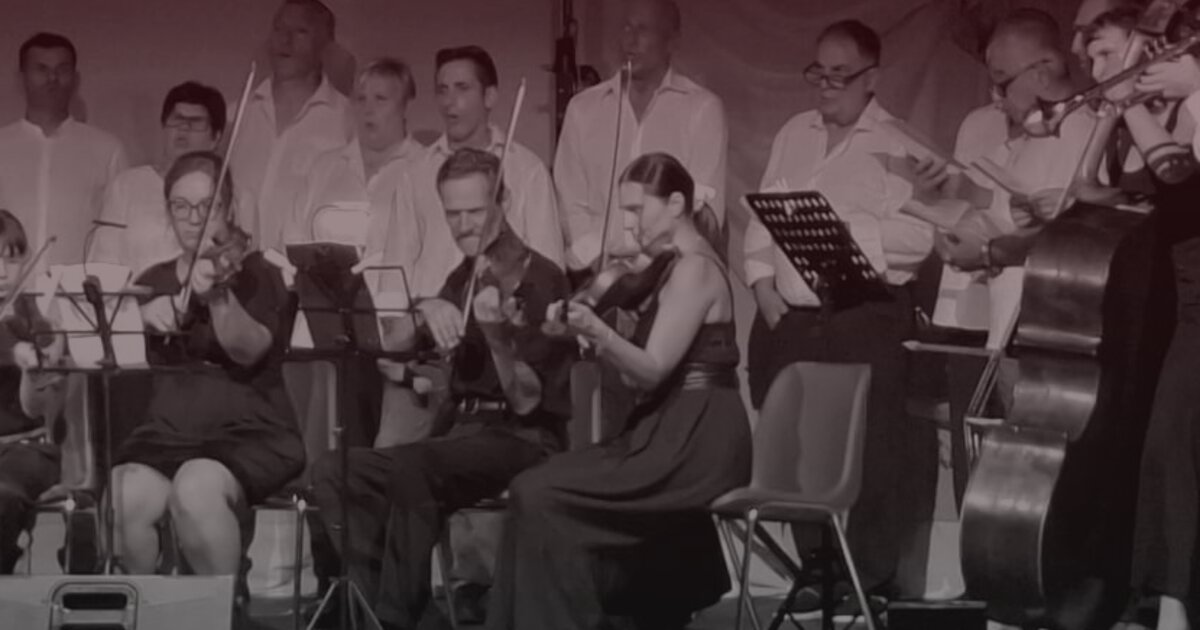
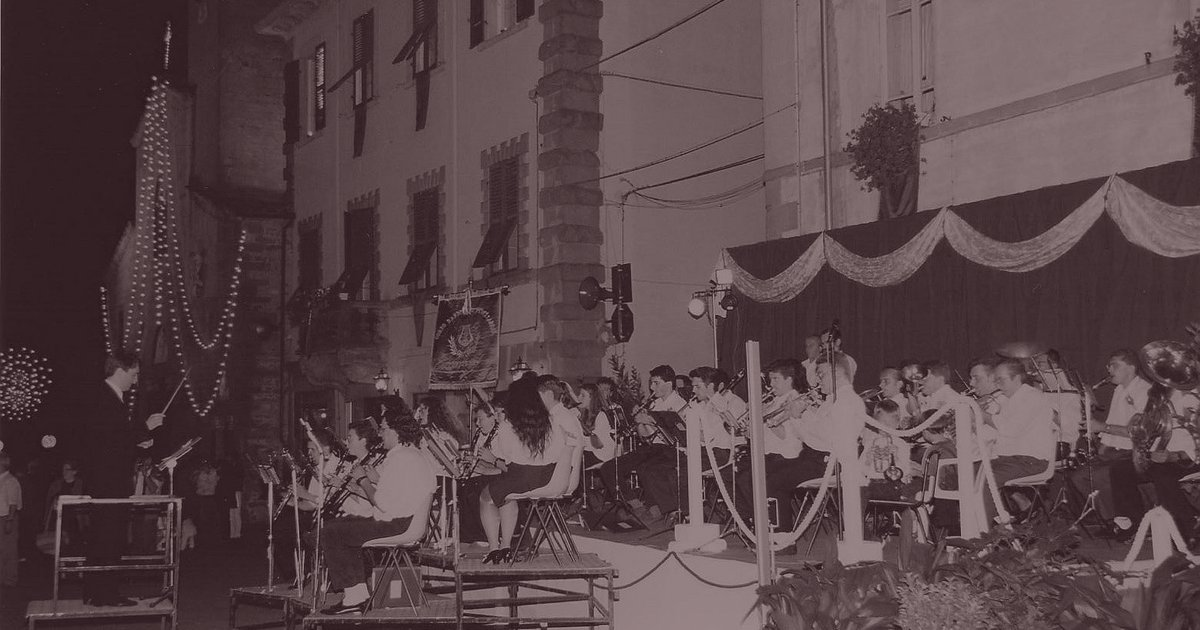
Foto di chi suona oggi sospese finché non ci sono i consensi: in home e nell'anteprima per i social la foto d'archivio degli anni Ottanta, copertina di Stradella Facendo e foto di oggi nella storia commentate

diff --git a/src/routes/Hero.svelte b/src/routes/Hero.svelte
@@ -4,16 +4,22 @@
     // In verticale la fascia è più alta che larga in proporzione alla foto (3:2), che la riempie tagliando i lati:
     // da qui i 160vw di "sizes", altrimenti il browser sceglie una versione larga quanto lo schermo e la ingrandisce.
     // Più larghezze delle due predefinite (metà e intera): con solo 1024 e 2048 un telefono scaricava sempre la 2048.
-    import cover from "$lib/assets/imgs/ensembles/stradella-facendo.jpg?enhanced&w=2048;1600;1280;960;640";
+    // SOSPESA finché non ci sono i consensi alle immagini di chi suona oggi (modulo dei consensi); al suo posto la foto
+    // d'archivio degli anni Ottanta. Per tornare indietro: togliere il commento a queste due righe, all'alt e alla
+    // posizione, e cancellare le due righe della foto d'archivio.
+    // import cover from "$lib/assets/imgs/ensembles/stradella-facendo.jpg?enhanced&w=2048;1600;1280;960;640";
+    // import coverPlaceholder from "$lib/assets/imgs/ensembles/stradella-facendo.jpg?w=24&blur=2&format=webp&inline";
+    import cover from "$lib/assets/imgs/anni_80.jpeg?enhanced&w=2048;1600;1280;960;640";
     // Anteprima sfocata della copertina, visibile subito mentre la foto si carica
-    import coverPlaceholder from "$lib/assets/imgs/ensembles/stradella-facendo.jpg?w=24&blur=2&format=webp&inline";
+    import coverPlaceholder from "$lib/assets/imgs/anni_80.jpeg?w=24&blur=2&format=webp&inline";
 </script>
 
 <!--
     Apertura della home: l'intestazione con foto di tutte le pagine (layout.css, copertina), con la fascia
     più alta, l'occhiello, il titolo in corpo display e la comparsa della prima schermata.
 -->
-<header style:--cover-placeholder="url({coverPlaceholder})" style:--cover-position="center 35%">
+<!-- SOSPESA, la posizione della foto di Stradella Facendo: style:--cover-position="center 35%" -->
+<header style:--cover-placeholder="url({coverPlaceholder})" style:--cover-position="center 60%">
     <hgroup>
         <p>Fivizzano · dal 1777</p>
         <h1>Filarmonica <span>Alessandro <em>Stradella</em></span></h1>
@@ -22,7 +28,7 @@
     <p><a href="/booking">Per il tuo evento</a></p>
     <enhanced:img
         src={cover}
-        alt="Stradella Facendo in concerto nel Museo di San Giovanni degli Agostiniani a Fivizzano"
+        alt="La Filarmonica in concerto di sera su un palco in piazza, negli anni Ottanta"
         sizes="(orientation: portrait) 160vw, 100vw"
         fetchpriority="high"
     />

diff --git a/src/routes/articles/history/filarmonica/+page.svelte b/src/routes/articles/history/filarmonica/+page.svelte
@@ -7,7 +7,8 @@
     import anni30Placeholder from "$lib/assets/imgs/anni_30.jpeg?w=24&blur=2&format=webp&inline";
     
     import anni80Img from "$lib/assets/imgs/anni_80.jpeg?enhanced&w=400;640;800;1280;1600&quality=40";
-    import oggiImg from "$lib/assets/imgs/oggi.jpg?enhanced&w=400;640;800;1280;1600";
+    // SOSPESA finché non ci sono i consensi alle immagini di chi suona oggi (modulo dei consensi):
+    // import oggiImg from "$lib/assets/imgs/oggi.jpg?enhanced&w=400;640;800;1280;1600";
     import diplomaImg from "$lib/assets/imgs/diploma_dissonanti.jpg?enhanced&w=400;640;800;1280;1600&quality=40";
     import militeIgnotoImg from "$lib/assets/imgs/milite-ignoto-1921.jpg?enhanced&w=400;640;800;1280;1600&quality=40";
 
@@ -189,10 +190,12 @@
         <a href="/about/ensembles/filarmonici-dissonanti">Filarmonici Dissonanti</a>, che porta il nome degli accademici del Settecento. Nel
         <time datetime="2027">2027</time> la Filarmonica compie 250 anni.
     </p>
+    <!-- SOSPESA finché non ci sono i consensi alle immagini (vedi l'import):
     <figure>
         <enhanced:img src={oggiImg} alt="L'Orchestra Infieri in concerto" {sizes} loading="lazy" />
         <figcaption>L'Orchestra Infieri della Filarmonica in concerto.</figcaption>
     </figure>
+    -->
 </section>
 
 <section>

diff --git a/src/routes/about/ensembles/[slug]/+page.svelte b/src/routes/about/ensembles/[slug]/+page.svelte
@@ -15,7 +15,7 @@
     itemscope
     itemtype="https://schema.org/MusicGroup"
     itemid="{organization.url}/about/ensembles/{ensemble.slug}#formazione"
-    style:--cover-placeholder={ensemble.coverImage && `url(${ensemble.coverImage.placeholder})`}
+    style:--cover-placeholder={ensemble.coverImage && ensemble.cover && `url(${ensemble.coverImage.placeholder})`}
     style:--cover-position={ensemble.cover?.position}
 >
     <h1 itemprop="name">{ensemble.title}</h1>

diff --git a/src/lib/content/ensembles/stradella-facendo.md b/src/lib/content/ensembles/stradella-facendo.md
@@ -2,10 +2,11 @@
 title: Stradella Facendo
 summary: "L'orchestra di fiati della Filarmonica, dedicata al repertorio da concerto e alla cura del dettaglio sonoro."
 order: 1
-cover:
-    alt: "Stradella Facendo in concerto nel Museo di San Giovanni degli Agostiniani a Fivizzano: chi dirige davanti, flauti, clarinetti, sassofoni e ottoni"
-    credit: Eleonora Rocchi
-    position: center 35%
+# SOSPESA finché non ci sono i consensi alle immagini di chi suona oggi (modulo dei consensi)
+# cover:
+#     alt: "Stradella Facendo in concerto nel Museo di San Giovanni degli Agostiniani a Fivizzano: chi dirige davanti, flauti, clarinetti, sassofoni e ottoni"
+#     credit: Eleonora Rocchi
+#     position: center 35%
 lineup:
     - name: Legni
       instruments:
